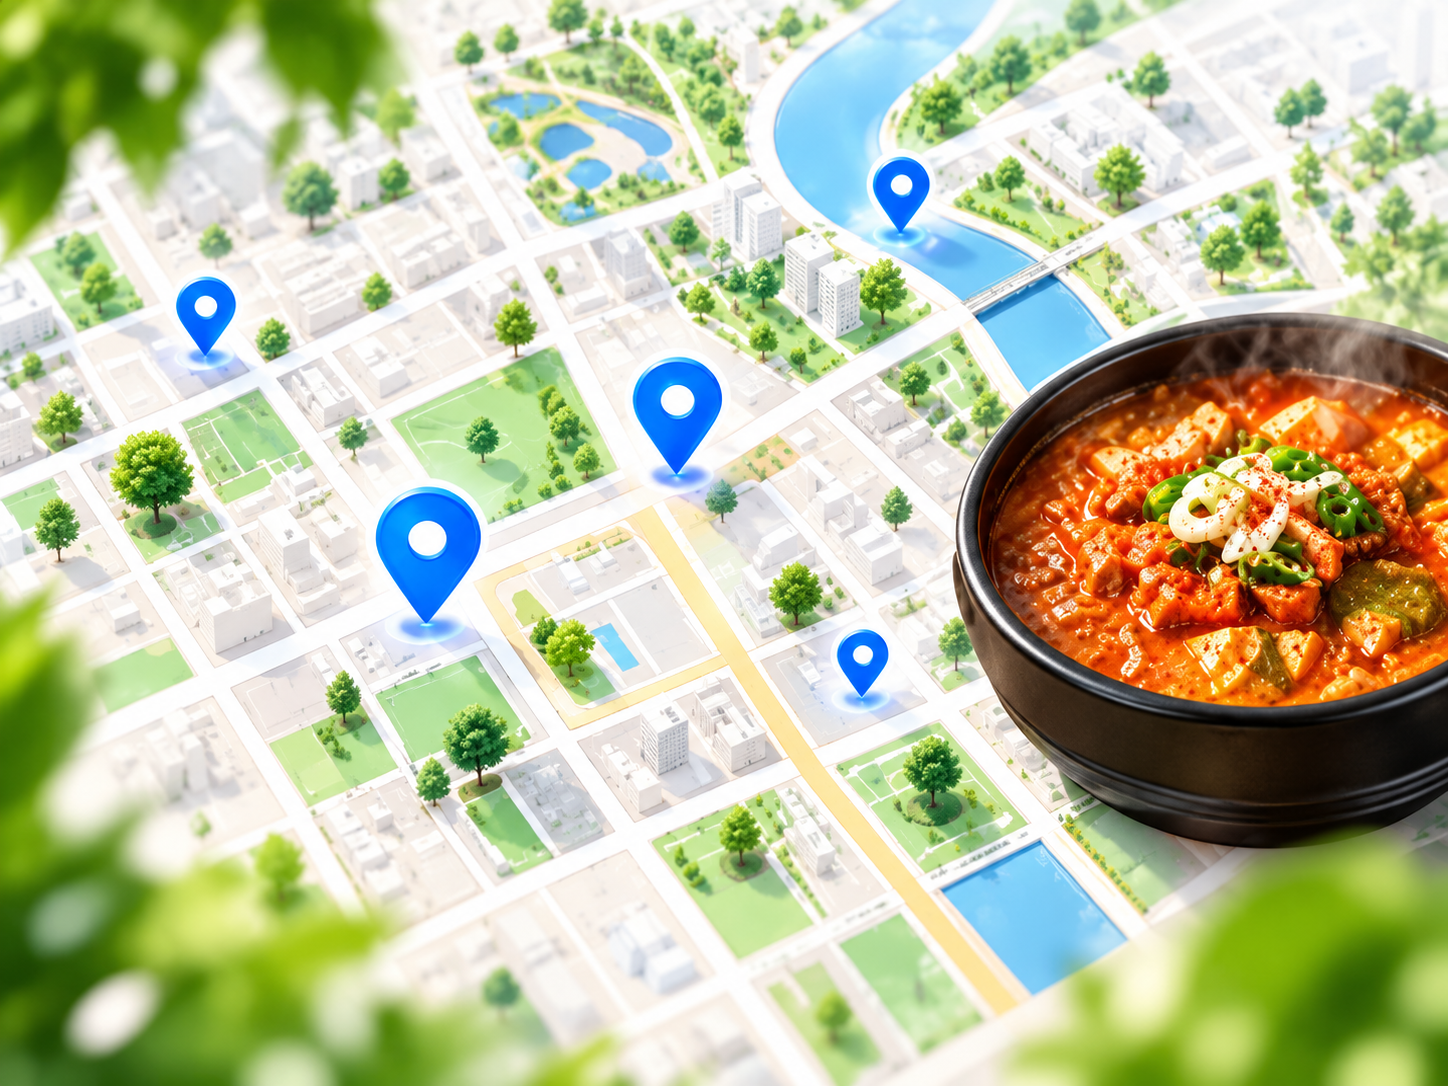
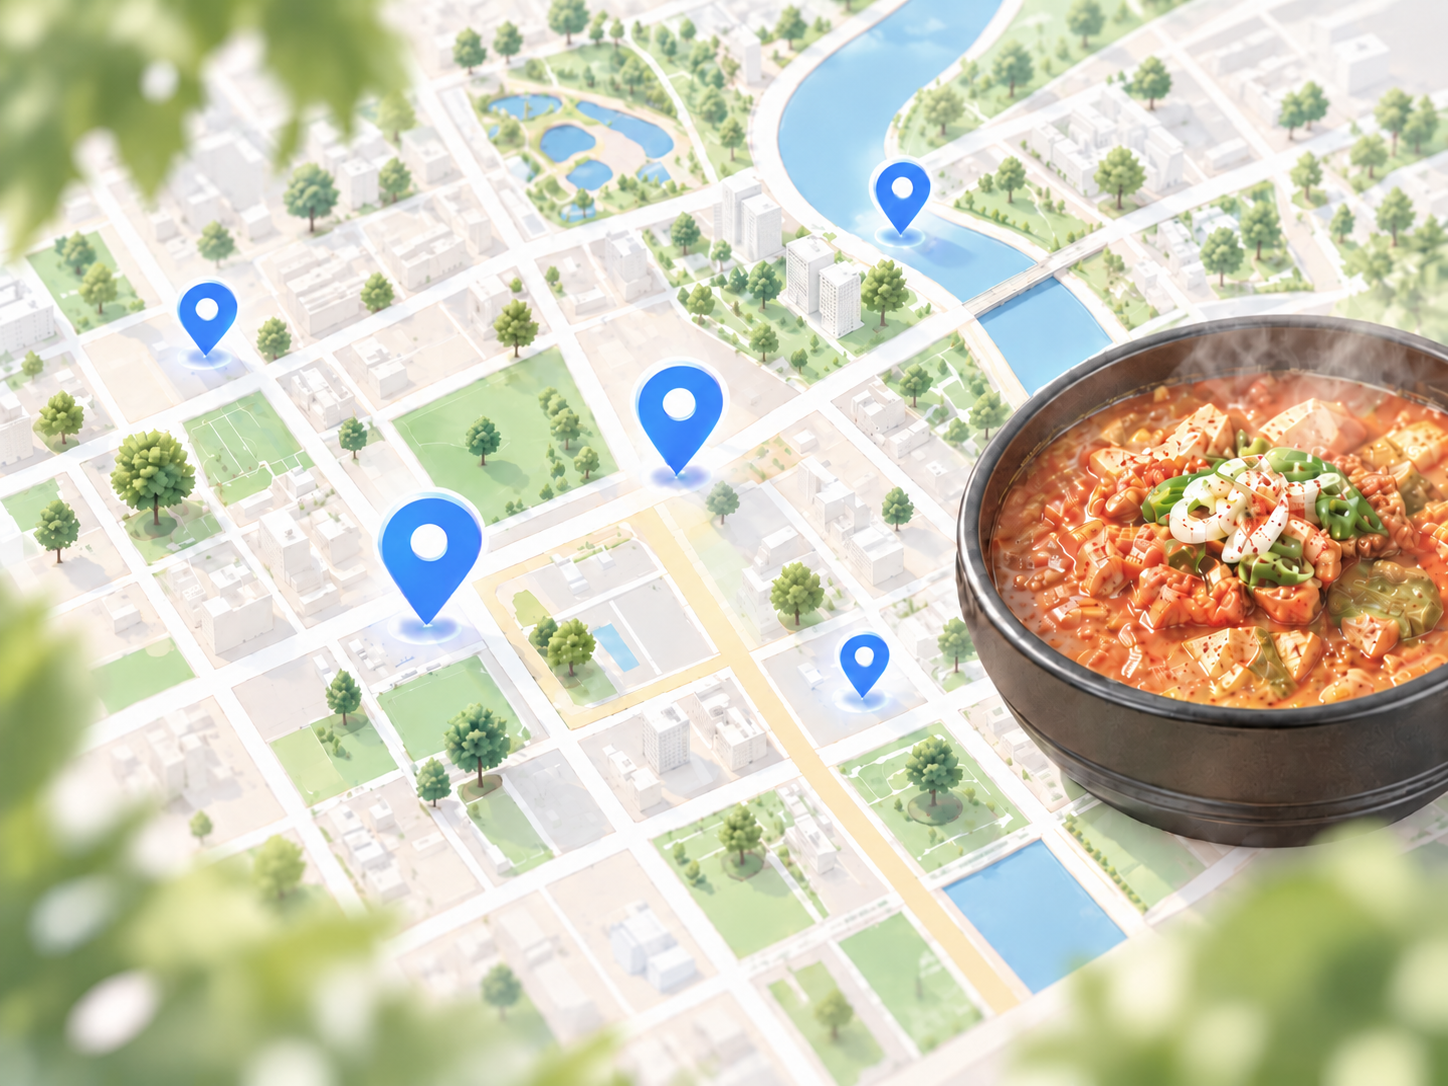
메인 카드이미지 감도 수정

diff --git a/CHANGELOG.md b/CHANGELOG.md
@@ -2,6 +2,8 @@
 
 ## 2026-10-15
 
+- 업로드 제목: **메인 카드이미지 감도 수정**. 사용자 수정한 홈페이지 기능 카드 이미지 4개를 반영. 기존 파일명·화면 연결 유지. 검증: 이미지 4개 디코딩 검사 및 git diff --check. 코드·개인 환경·DB 변경 없음.
+
 - 업로드 제목: **메인 한식이미지로 변경**. 사용자 교체 이미지 5개(홈페이지 하단·인증 공용 이미지와 기능 카드 4개) 및 배너·로그인 이미지 위치 조정을 develop에 반영. 검증: Frontend production build, 이미지 디코딩 및 git diff --check. 개인 환경·API 키·DB 제외.
 
 - 항목: 로그인·회원가입 왼쪽 음식 이미지를 70px 위로 이동(bottom -130px → -60px)하여 김치찌개가 더 보이도록 조정. 홈페이지 배너 하단 정렬·이미지 원본 유지.
